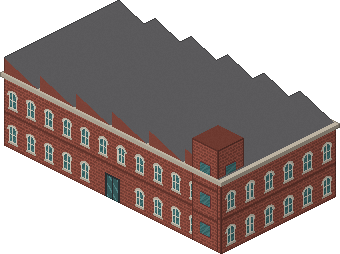
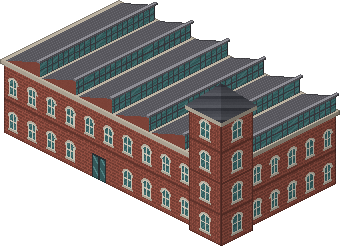
Brick factory: glazed sawtooth roof, a whole corner tower
The sawtooth's glazing faced away from the camera, leaving plain grey slopes;
the teeth now rise toward +u to mullioned north lights, the slopes are lapped
metal courses under a ridge cap. The stair tower stood flush with both walls,
which cut into it and half-covered windows; it now stands proud of them,
taller, with four arched floors, a cornice and a slate cap, and the wall
windows are laid out only where the tower leaves wall showing.

diff --git a/js/city.js b/js/city.js
@@ -1622,7 +1622,7 @@
       'buildings/brick-4.png': [0, 0, 0, CANOPY], 'buildings/hotel.png': [0, 0, 0, CANOPY], 'civic/hospital.png': [0, 0, 0, 0.5], 'nuclear/reactor.png': [0, 0, 0, 0.3], 'nuclear/turbine-hall.png': [0, 0.55, 0, 0.3], 'landmarks/tv-station.png': [0, 0, 0, 0.36], 'houses/diner.png': [0, 0.18, 0, 0],
       'buildings/fastfood.png': [0, 0.34, 0, 0], 'buildings/bistro.png': [0, 0.58, 0, 0], 'buildings/apartment-2.png': [0, 0.22, 0, 0.3],
       'civic/church.png': [0.04, 0.04, 0, 0.36], 'civic/bank.png': [0, 0, 0, 0.36],
-      'civic/post-office.png': [0.3, 0, 0, 0.12], 'civic/school.png': [0.3, 0, 0, 0.12], 'civic/customs.png': [0.3, 0.3, 0, 0.14],
+      'industry/brick-factory.png': [0, 0.1, 0, 0.1], 'civic/post-office.png': [0.3, 0, 0, 0.12], 'civic/school.png': [0.3, 0, 0, 0.12], 'civic/customs.png': [0.3, 0.3, 0, 0.14],
     };
     const keepouts = [], doors = [];
     for (const lot of lots) {

diff --git a/tools/art.py b/tools/art.py
@@ -3135,18 +3135,41 @@ def sawtooth_factory(seed, a=3.4, b=1.8, floors=2):
     fh = 34
     hgt = floors * fh + 4
     x0, y0 = -a / 2, -b / 2
-    civic_walls(s, x0, y0, a, b, hgt, floors, fh, "#8a4a3e", "brick", spans(12), spans(6), (0.47, 0.53),
-                "arched", "#e0d8c8", None)
+    # Windows only where the corner tower (below) leaves wall showing.
+    tower = 0.42
+    fv, fu = (a - tower) / a, (b - tower) / b
+    scale = lambda sp, f: [(lo * f, hi * f) for lo, hi in sp]
+    civic_walls(s, x0, y0, a, b, hgt, floors, fh, "#8a4a3e", "brick", scale(spans(10), fv), scale(spans(5), fu),
+                (fv / 2 - 0.03, fv / 2 + 0.03), "arched", "#e0d8c8", None)
     cornice(s, x0, y0, a, b, hgt, "#bdb3a2")
-    n = 6
-    for k in range(n):                                              # sawtooth: glazed steep side, slate slope
-        sx = x0 + k * a / n
-        s.face((sx, y0, hgt), (0, b, 0), (0, 0, 16), lambda a_, b_, xs, ys: np.array(GLASS)[(xs + ys) % 4] * 1.1, light=0.9)
-        s.face((sx, y0, hgt + 16), (0, b, 0), (a / n, 0, -16), flat(s, "#5b5a5c", 4), light=1.0)
-        s.face((sx, y0 + b, hgt), (a / n, 0, 0), (0, 0, 16), flat(s, "#8a4a3e", 6), tri=True, light=LIGHT["v"])
-    s.box(x0 + a - 0.45, y0 + b - 0.4, 0, 0.4, 0.4, hgt + 30, flat(s, "#6e3a30"),
-          wall_shader(s, "#8a4a3e", 0.4 * 71.6, hgt + 30, 3, spans(1), None, None, "brick", floor_h=30),
-          wall_shader(s, "#8a4a3e", 0.4 * 71.6, hgt + 30, 3, spans(1), None, None, "brick", floor_h=30))
+    # Sawtooth roof: each tooth's slope rises toward +u to a glazed north
+    # light facing the camera. Slopes are lapped metal sheets in courses
+    # along the ridge (they draw as clean iso lines), under a light ridge
+    # cap; the glass has steel mullions.
+    n, rise = 6, 16
+    tw = a / n
+    seam = lambda a_, b_, xs, ys: (np.where((np.mod(b_ * tw * 71.6, 5) < 1)[:, None], rgb("#6a6970"), rgb("#57565c"))
+                                   * np.where((b_ > 0.93)[:, None], 1.25, 1.0) + (s.grain[ys, xs] - 0.5)[:, None] * 5)
+
+    def lights(a_, b_, xs, ys):
+        along, z = a_ * b * 71.6, b_ * rise
+        mullion = (np.mod(along, 6) < 1) | (z < 1.5) | (z > rise - 1.5) | (np.abs(z - rise / 2) < 0.6)
+        glass = np.array(GLASS)[np.where((xs + ys) % 7 < 2, 3, (xs // 2 + ys) % 3)] * 1.1
+        return np.where(mullion[:, None], rgb("#4a4a50"), glass)
+    for k in range(n):
+        sx = x0 + k * tw
+        s.face((sx, y0, hgt), (0, b, 0), (tw, 0, rise), seam, light=1.0)
+        s.face((sx + tw, y0, hgt), (0, b, 0), (0, 0, rise), lights, light=LIGHT["u"])
+        s.face((sx + tw, y0 + b, hgt), (-tw, 0, 0), (0, 0, rise), flat(s, "#8a4a3e", 6), tri=True, light=LIGHT["v"])
+        s.box(sx + tw - 0.02, y0 - 0.02, hgt + rise, 0.04, b + 0.04, 2, *(flat(s, c, 3) for c in ("#8e8d94", "#77767d", "#65646a")))
+    # Stair tower on the front corner, standing proud of both walls so
+    # neither cuts into it, rising well over the roof.
+    tx, ty, tw_, th = x0 + a - tower, y0 + b - tower, tower + 0.08, hgt + 52
+    tower_wall = wall_shader(s, "#8a4a3e", tw_ * 71.6, th, 4, spans(1, 0.3, 0.7), None, None, "brick", frame="#e0d8c8",
+                             window_style="arched", floor_h=31)
+    s.box(tx, ty, 0, tw_, tw_, th, flat(s, "#6e3a30"), tower_wall, tower_wall)
+    cornice(s, tx, ty, tw_, tw_, th, "#bdb3a2")
+    pyramid(s, tx - 0.03, ty - 0.03, tw_ + 0.06, tw_ + 0.06, th + 1, 22, SLATE)
     s.outline(0.7)
     return s, (a, b)
 
